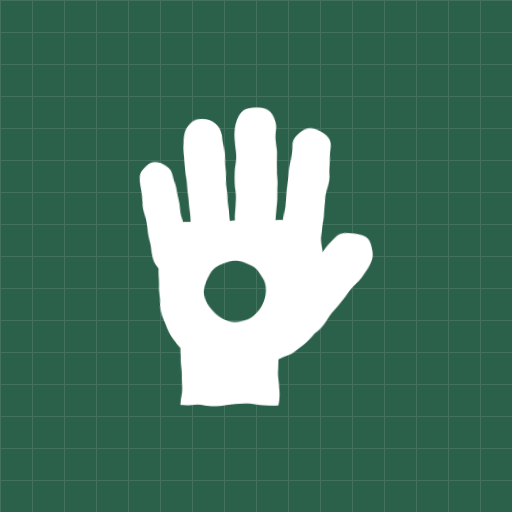
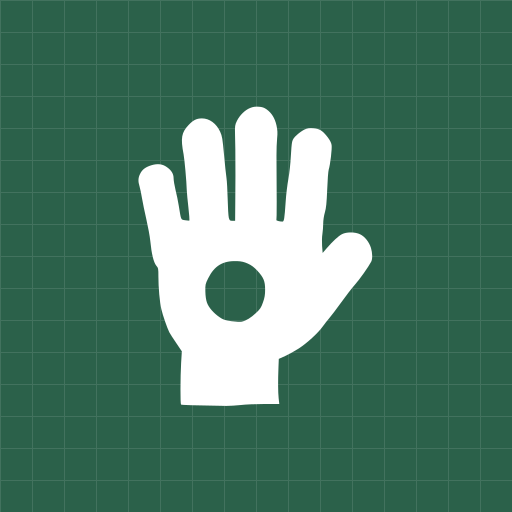
New UI_3

diff --git a/index.html b/index.html
@@ -13,6 +13,7 @@
 <meta name="apple-mobile-web-app-status-bar-style" content="default">
 <link rel="manifest" href="manifest.webmanifest">
 <link rel="icon" type="image/png" sizes="32x32" href="favicon-32.png">
+<link rel="icon" type="image/svg+xml" sizes="any" href="favicon.svg">
 <link rel="apple-touch-icon" href="apple-touch-icon.png">
 <style>
 @font-face { font-family: "Bricolage Grotesque"; src: url(bricolage-grotesque.woff2) format("woff2"); font-weight: 200 800; font-style: normal; font-display: swap; }
@@ -368,7 +369,7 @@ input::placeholder { color: var(--muted); font-weight: 400; }
 <body>
 <div id="app-shell">
   <aside class="app-rail" aria-label="Navigazione principale">
-    <a class="rail-brand" href="#overview"><img class="brand-mark" src="icon-192.png" width="38" height="38" alt="" aria-hidden="true"><span>Dove<br>Spendo</span></a>
+    <a class="rail-brand" href="#overview"><img class="brand-mark" src="icon.svg" width="38" height="38" alt="" aria-hidden="true"><span>Dove<br>Spendo</span></a>
     <p class="rail-kicker">Il tuo spazio</p>
     <nav class="rail-nav">
       <a href="#overview" data-nav aria-current="location"><svg viewBox="0 0 24 24" fill="none" stroke="currentColor" stroke-width="1.7" stroke-linecap="round" stroke-linejoin="round" aria-hidden="true"><rect x="3" y="3" width="7" height="7" rx="2"/><rect x="14" y="3" width="7" height="7" rx="2"/><rect x="3" y="14" width="7" height="7" rx="2"/><rect x="14" y="14" width="7" height="7" rx="2"/></svg>Panoramica</a>
@@ -380,7 +381,7 @@ input::placeholder { color: var(--muted); font-weight: 400; }
   </aside>
 <div class="page">
   <header class="topbar">
-    <div class="mobile-brand"><img class="brand-mark" src="icon-192.png" width="30" height="30" alt="" aria-hidden="true">Dove Spendo</div>
+    <div class="mobile-brand"><img class="brand-mark" src="icon.svg" width="30" height="30" alt="" aria-hidden="true">Dove Spendo</div>
     <div class="header-copy"><p class="section-kicker">Benvenuto nel tuo spazio</p><h1 class="brand">Il tuo mese, in chiaro.</h1><p class="header-caption">Le tue spese, con un po' più di prospettiva.</p></div>
     <button class="btn btn-primary" type="button" id="upload" data-upload>
       <svg viewBox="0 0 24 24" fill="none" stroke="currentColor" stroke-width="2" stroke-linecap="round" stroke-linejoin="round" aria-hidden="true"><path d="M12 15V4"/><path d="m7 9 5-5 5 5"/><path d="M5 20h14"/></svg>

diff --git a/sw.js b/sw.js
@@ -1,8 +1,9 @@
 /* Dove Spendo: tiene in memoria i file dell'app per aprirla anche senza connessione.
    Cambia VERSION quando aggiorni font, icone o altri file. */
-const VERSION = 'dove-spendo-v5';
+const VERSION = 'dove-spendo-v6';
 const FILES = [
   './', './index.html', './manifest.webmanifest',
+  './icon.svg', './favicon.svg',
   './icon-192.png', './icon-512.png', './icon-maskable-512.png', './apple-touch-icon.png', './favicon-32.png',
   './bricolage-grotesque.woff2', './plex-sans-400.woff2', './plex-sans-500.woff2', './plex-sans-600.woff2',
   './plex-mono-400.woff2', './plex-mono-500.woff2', './xlsx.full.min.js'
